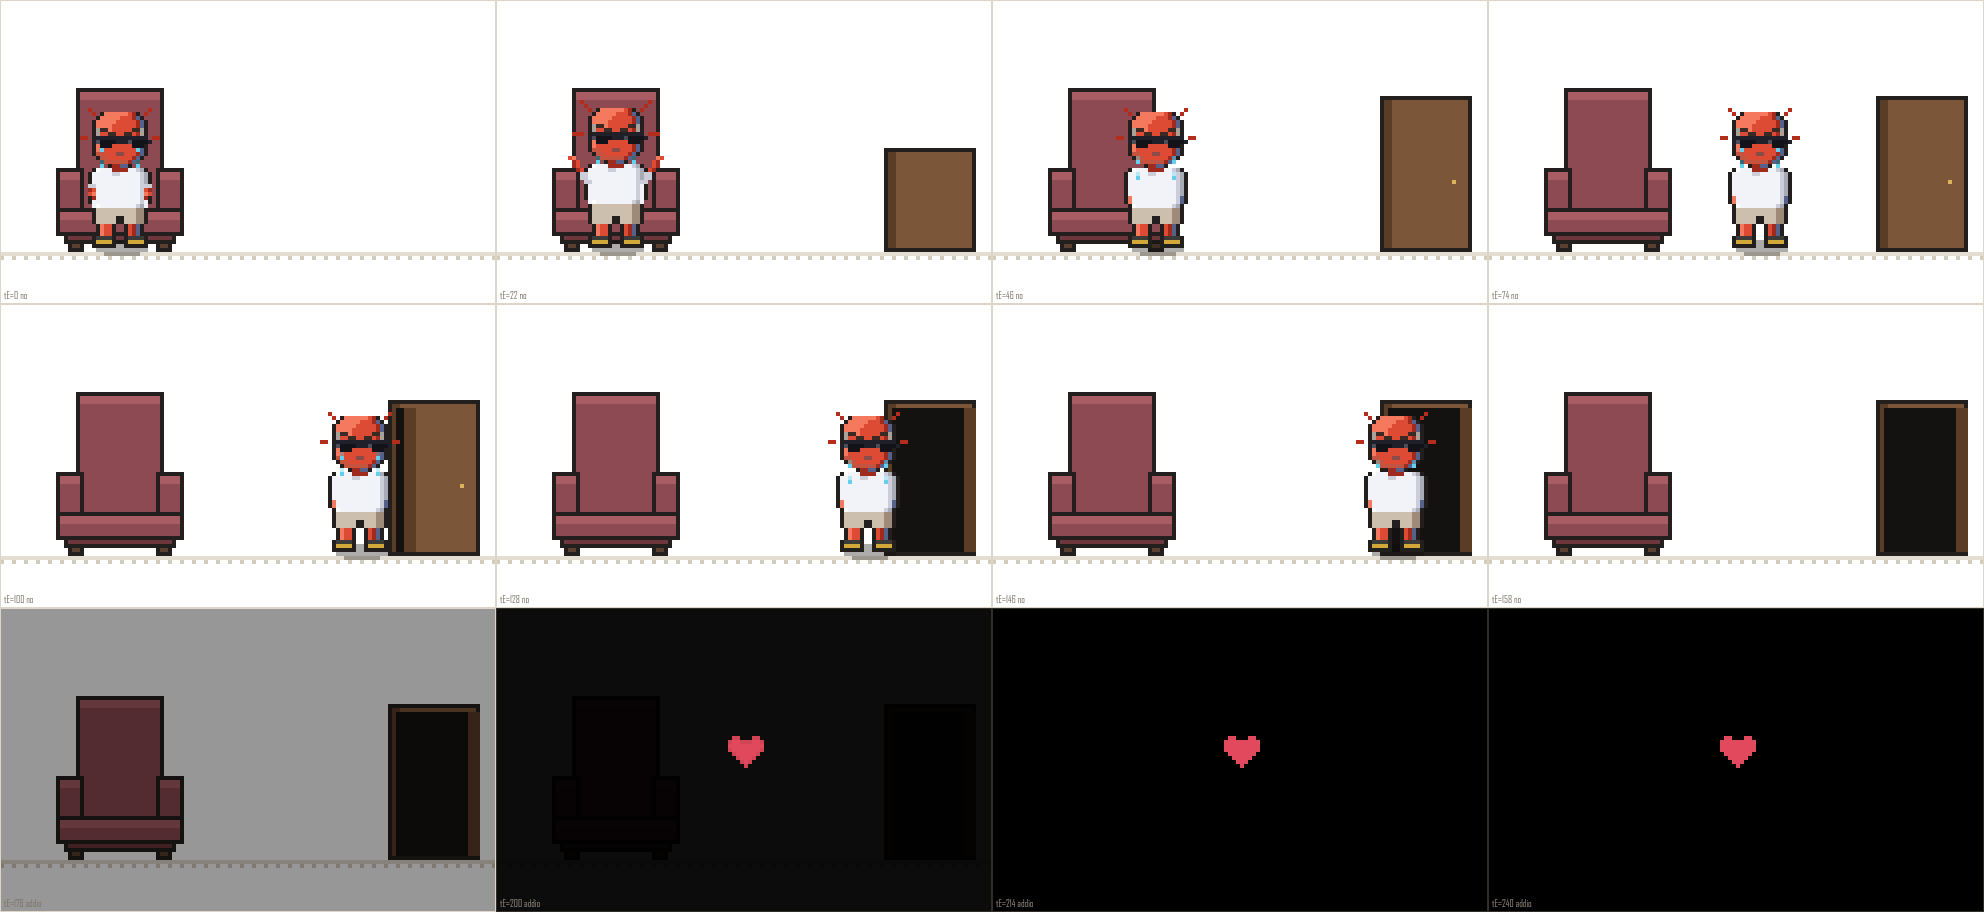
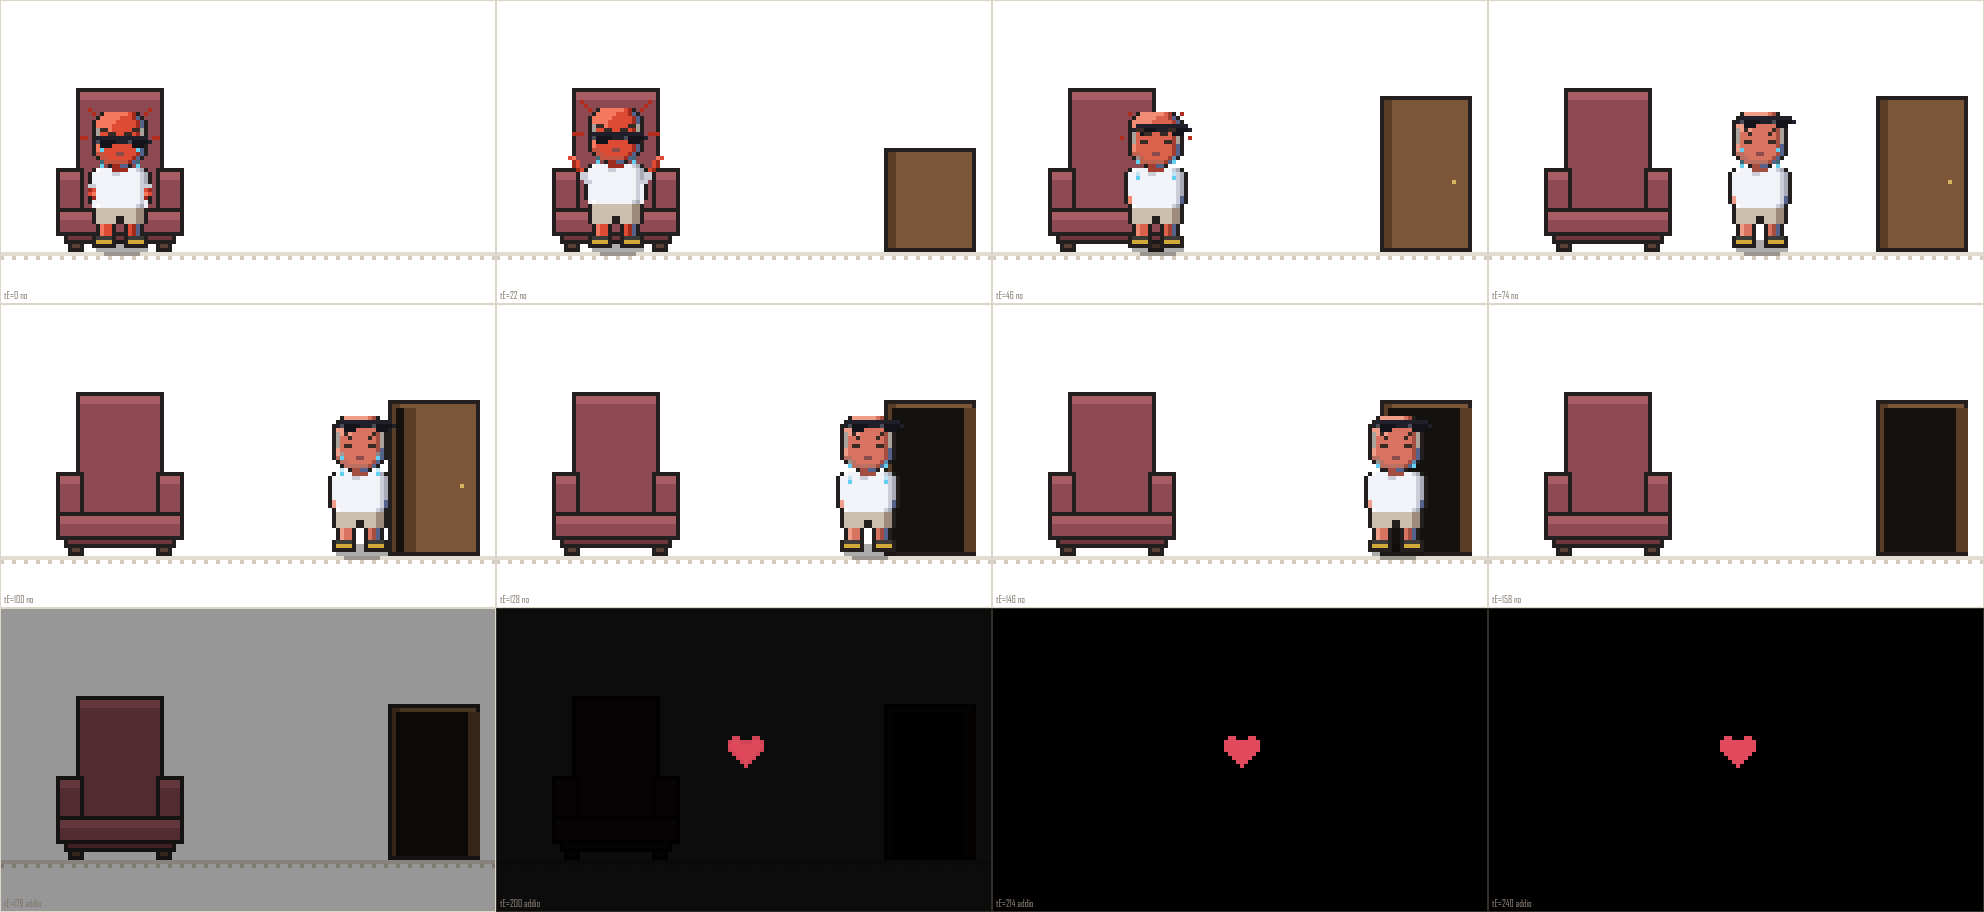
Le battute dei rifiuti, gli occhiali alzati, e il selettore delle scene
Battute: 'MA COME NO?!' e 'DAVVERO?!' al posto delle precedenti.

Al terzo no si tira su gli occhiali mentre se ne va. attore sapeva gia'
farlo - e' il gesto della prima scena - e bastava passargli occhialiQ.
Serve piu' di quanto sembri: la montatura scura gli copre sempre gli
occhi, e senza occhi il pianto erano due gocce azzurre su una faccia
impassibile. Alzati, gli occhi si vedono.

Di conseguenza ho fatto calare la rabbia mentre esce, da 1 a 0,45. Resta
la faccia accesa e restano le sopracciglia, spariscono i trattini attorno
alla testa, che si accendono solo sopra 0,5. Furioso E piangente erano
due segnali che si contendevano la stessa faccia: cosi' la rabbia diventa
dispiacere, che e' quello che gli succede davvero. Se preferisci che resti
furioso fino in fondo, e' un numero solo.

Il fumetto delle battute andava messo quattro pixel PRIMA di lui e non
dopo: la codina esce a quattro dal bordo, e messo dopo la battuta sembrava
detta da qualcuno di fianco.

SELETTORE DELLE SCENE, in prova.js. NON DEVE FINIRE NEL RILASCIO.
Due garanzie indipendenti: si spegne da solo fuori dagli indirizzi locali,
e sta tutto in un file suo, che al rilascio va cancellato insieme alla sua
riga in index.html. La prima basterebbe; la seconda c'e' perche'
dimenticarsi di togliere una cosa e' la piu' facile delle sviste.

strumenti/prova.js verifica le due garanzie: prova la condizione contro
quattordici indirizzi, compresi casi insidiosi come notlocalhost.com e
[…]

diff --git a/prova.js b/prova.js
@@ -1,0 +1,183 @@
+/* ==========================================================================
+   SELETTORE DELLE SCENE — solo per le prove, NON fa parte dell'invito
+
+   Serve a saltare dritti alla scena che si sta lavorando, senza rifare
+   ogni volta tutto il percorso dall'inizio.
+
+   NON PUO' FINIRE NEL RILASCIO, per due ragioni indipendenti:
+
+   1. Si spegne da solo. Compare soltanto se la pagina arriva da un
+      indirizzo locale (localhost, 192.168.x, un file aperto a mano). Sul
+      sito pubblicato l'elenco qui sotto non trova corrispondenza e lo
+      script esce subito, senza toccare niente.
+   2. Sta tutto in questo file. Per farlo sparire del tutto basta togliere
+      la riga <script src="prova.js"> da index.html e cancellarlo.
+
+   La prima ragione da sola basterebbe; la seconda c'e' perche' dimenticarsi
+   di togliere una cosa e' la piu' facile delle sviste.
+
+   Si puo' anche arrivare diritti a una scena con l'indirizzo, comodo dal
+   telefono:   http://192.168.1.9:5173/?scena=mappa
+   ========================================================================== */
+(function(){
+"use strict";
+
+const LOCALE = /^(localhost|127\.0\.0\.1|\[::1\]|0\.0\.0\.0)$/.test(location.hostname)
+  || /^192\.168\./.test(location.hostname)
+  || /^10\./.test(location.hostname)
+  || /^172\.(1[6-9]|2\d|3[01])\./.test(location.hostname)
+  || /^100\./.test(location.hostname)          // rete Tailscale
+  || location.protocol === 'file:';
+
+if (!LOCALE){
+  // sul sito pubblicato non deve esistere: nessun pannello, nessun tasto
+  return;
+}
+
+/* --------------------------------------------------------------------------
+   I SALTI
+   Ogni voce porta la scena nello stato in cui la si vuole guardare, non
+   al suo inizio: le prove servono per il punto difficile, e il punto
+   difficile sta quasi sempre in fondo.
+   -------------------------------------------------------------------------- */
+function scopri(){ document.getElementById('salta').style.display = ''; }
+
+const SALTI = [
+  ['1', 'buio', 'la prima scena dall\u2019inizio', () => {
+    location.href = location.pathname;          // ripartire da zero: ricarico
+  }],
+
+  ['2', 'salotto', 'entra e accende la TV', () => {
+    scopri(); entraInSalotto();
+  }],
+  ['3', 'volume 70', 'la TV che trema, subito', () => {
+    scopri(); entraInSalotto(); tSalotto = SC.fineVolume - 1;
+  }],
+
+  ['4', 'facile', 'il tubo che perde', () => {
+    scopri(); entraInFacile();
+  }],
+  ['5', 'torre', 'la Torre di Pisa', () => {
+    scopri(); entraInFacile();
+    passoFacile = 7; tPasso = 0; mostraFrase(window.FACILE.PASSI[7].frase);
+  }],
+  ['6', 'congedo', 'devi andare via / VABBUO\u2019', () => {
+    scopri(); entraInFacile();
+    const u = window.FACILE.PASSI.length - 1;
+    passoFacile = u; tPasso = 0; mostraFrase(window.FACILE.PASSI[u].frase);
+  }],
+
+  ['7', 'mappa', 'i tre ingrandimenti', () => {
+    scopri(); entraInMappa();
+  }],
+  ['8', 'arrivo', 'data e luogo a schermo', () => {
+    scopri(); entraInMappa();
+    livelloMappa = window.MAPPA.LIVELLI.length - 1;
+    tMappa = fineAggancio();
+    strettaLibera = false;
+    mostraFrase(1);
+  }],
+
+  ['9', 'caduta', 'cade e sbotta', () => {
+    scopri(); entraInCaduta();
+  }],
+  ['0', 'domanda', 'seduto, in attesa', () => {
+    scopri(); entraInScelta(); tScelta = 80;
+  }],
+  ['s', 'ramo s\u00ec', 'coriandoli e ballo', () => {
+    scopri(); entraInScelta(); tScelta = 80; premuto('si');
+  }],
+  ['n', 'ramo no', 'due rifiuti gi\u00e0 dati: il terzo apre la porta', () => {
+    scopri(); entraInScelta(); tScelta = 80;
+    rifiuti = 2; tRifiuto = 9999;
+    document.getElementById('no').className = 'duro2';
+    document.getElementById('testo').innerHTML = DOMANDE[2];
+  }]
+];
+
+/* --------------------------------------------------------------------------
+   IL PANNELLO
+   Lo stile sta qui dentro e non nel foglio della pagina: cosi' l'invito
+   non porta in giro regole che non gli servono.
+   -------------------------------------------------------------------------- */
+const stile = document.createElement('style');
+stile.textContent = `
+  #prova{
+    position:fixed; top:10px; left:10px; z-index:20;
+    display:flex; flex-wrap:wrap; gap:4px; max-width:min(420px, 62vw);
+    font:12px/1 system-ui, sans-serif;
+  }
+  #prova .capo{
+    flex:0 0 100%; color:#6f6558; letter-spacing:.08em;
+    text-transform:uppercase; font-size:10px; margin-bottom:2px;
+  }
+  #prova button{
+    font:inherit; color:#b9ae9e; background:rgba(14,12,10,.86);
+    border:1px solid #3a332c; border-radius:6px;
+    padding:6px 8px; cursor:pointer;
+  }
+  #prova button:hover{ color:#f2ece2; border-color:#6d6153 }
+  #prova button b{ color:#d9a93a; font-weight:700; margin-right:5px }
+  #prova.chiuso .voce{ display:none }
+`;
+document.head.appendChild(stile);
+
+const pannello = document.createElement('div');
+pannello.id = 'prova';
+
+const capo = document.createElement('div');
+capo.className = 'capo';
+capo.textContent = 'prove \u2014 non va online';
+pannello.appendChild(capo);
+
+const perTasto = new Map();
+for (const [tasto, nome, aiuto, vai] of SALTI){
+  const b = document.createElement('button');
+  b.className = 'voce';
+  b.innerHTML = '<b>' + tasto + '</b>' + nome;
+  b.title = aiuto + '  (tasto ' + tasto + ')';
+  b.addEventListener('click', e => { e.stopPropagation(); vai(); });
+  // il tocco non deve arrivare alla scena sotto, o fa avanzare il racconto
+  b.addEventListener('pointerdown', e => e.stopPropagation());
+  pannello.appendChild(b);
+  perTasto.set(tasto, vai);
+}
+
+const chiudi = document.createElement('button');
+chiudi.innerHTML = '<b>\u00b7</b>';
+chiudi.title = 'mostra o nasconde l\u2019elenco';
+chiudi.addEventListener('pointerdown', e => e.stopPropagation());
+chiudi.addEventListener('click', e => {
+  e.stopPropagation();
+  pannello.classList.toggle('chiuso');
+});
+pannello.insertBefore(chiudi, capo.nextSibling);
+
+document.body.appendChild(pannello);
+
+/* I tasti: provare a mano con il mouse, dieci volte di fila, e' la ragione
+   per cui poi non si prova piu'. */
+addEventListener('keydown', e => {
+  if (e.ctrlKey || e.altKey || e.metaKey) return;
+  const vai = perTasto.get(e.key.toLowerCase());
+  if (!vai) return;
+  e.preventDefault();
+  e.stopPropagation();
+  vai();
+}, true);          // in cattura: prima che la pagina legga il tasto
+
+/* L'indirizzo con ?scena=nome, per arrivarci diritti dal telefono. */
+const chiesta = new URLSearchParams(location.search).get('scena');
+if (chiesta){
+  const trovata = SALTI.find(([tasto, nome]) =>
+    tasto === chiesta || nome.toLowerCase().replace(/\s+/g, '') === chiesta.toLowerCase());
+  // la prima voce ricarica la pagina: saltarla evita un giro infinito
+  if (trovata && trovata[1] !== 'buio') setTimeout(trovata[3], 60);
+}
+
+console.log('%cselettore delle scene attivo', 'color:#d9a93a');
+console.log('  tasti: ' + SALTI.map(s => s[0]).join(' ') +
+            '   oppure ?scena=' + SALTI.map(s => s[1].replace(/\s+/g, '')).join(' / '));
+console.log('  non compare sul sito pubblicato');
+
+})();

diff --git a/strumenti/prova.js b/strumenti/prova.js
@@ -1,0 +1,62 @@
+/* Controlla le due garanzie del selettore delle scene:
+   1. che compaia sugli indirizzi locali e su nessun altro
+   2. che tutti i nomi che usa esistano davvero in index.html
+
+     node strumenti/prova.js
+*/
+const fs = require("fs");
+
+const sorgente = fs.readFileSync("prova.js", "utf8");
+const pagina = fs.readFileSync("index.html", "utf8");
+
+/* --- 1. dove compare --- */
+// la stessa condizione del file, ripresa dal sorgente per non poter divergere
+const blocco = sorgente.match(/const LOCALE =([\s\S]*?);\n/)[1];
+const locale = h => {
+  const location = { hostname: h, protocol: "http:" };
+  return eval(blocco.replace(/location/g, "location"));
+};
+
+const DEVE = ["localhost", "127.0.0.1", "192.168.1.9", "100.82.105.15",
+              "10.0.0.5", "172.16.3.2", "172.31.255.1"];
+const NON_DEVE = ["phantomrazgriz.github.io", "gerardo60.it", "example.com",
+                  "1000.1.1.1", "172.32.0.1", "8.8.8.8", "notlocalhost.com"];
+
+let male = 0;
+console.log("deve comparire:");
+for (const h of DEVE){
+  const ok = locale(h);
+  if (!ok) male++;
+  console.log("  " + h.padEnd(26) + (ok ? "si" : "NO   <-- errore"));
+}
+console.log("non deve comparire:");
+for (const h of NON_DEVE){
+  const ok = !locale(h);
+  if (!ok) male++;
+  console.log("  " + h.padEnd(26) + (ok ? "no" : "COMPARE   <-- ERRORE"));
+}
+
+/* --- 2. i nomi che usa esistono nella pagina? --- */
+const USATI = ["entraInSalotto", "entraInFacile", "entraInMappa", "entraInCaduta",
+               "entraInScelta", "mostraFrase", "premuto", "fineAggancio",
+               "tSalotto", "passoFacile", "tPasso", "livelloMappa", "tMappa",
+               "strettaLibera", "tScelta", "rifiuti", "tRifiuto", "SC", "DOMANDE"];
+
+console.log("\nnomi presi dalla pagina:");
+for (const n of USATI){
+  if (!sorgente.includes(n)) continue;
+  const dichiarato = new RegExp("(function|let|const|var)\\s+" + n + "\\b").test(pagina)
+                  || new RegExp("(let|const)\\s+[^;\\n]*\\b" + n + "\\b\\s*=").test(pagina);
+  if (!dichiarato) male++;
+  console.log("  " + n.padEnd(18) + (dichiarato ? "c'e'" : "MANCA   <-- ERRORE"));
+}
+
+/* --- 3. e la pagina lo carica per ultimo? --- */
+const iProva = pagina.indexOf('src="prova.js"');
+const iCorpo = pagina.lastIndexOf("</script>", iProva);
+console.log("\ncaricato dopo il codice della pagina: " +
+  (iProva > 0 && iCorpo > 0 ? "si" : "NO"));
+if (iProva < 0) male++;
+
+console.log(male === 0 ? "\ntutto a posto" : "\n" + male + " problemi");
+process.exit(male === 0 ? 0 : 1);

diff --git a/index.html b/index.html
@@ -1090,13 +1090,17 @@ const DOMANDE = [
   '\u2026sei sicuro? Pensaci bene.',
   'Ultima possibilit\u00e0. Ci sarai?'
 ];
-const REAZIONI = ['MA COME NO', 'E ALLORA NO'];
+const REAZIONI = ['MA COME NO?!', 'DAVVERO?!'];
 
 let tScelta = 0, rifiuti = 0, esito = null, tEsito = 0, dettoAddio = false;
 // da quanto e' arrivato l'ultimo no: serve a far durare la battuta il giusto
 let tRifiuto = 9999;
 
 function entraInScelta(){
+  /* Si prepara la tela da se' invece di fidarsi di arrivare dalla caduta:
+     cosi' la scena regge anche se ci si entra di colpo. */
+  vista = VISTE.finale;
+  ridimensiona();
   stato = 'scelta';
   tScelta = 0; rifiuti = 0; esito = null; tEsito = 0; dettoAddio = false;
   tRifiuto = 9999;
@@ -1181,16 +1185,19 @@ function disegnaScelta(){
   if (s.mostraLui){
     const r = A.attore(P, s.x, s.y, {
       azione: s.azione, t: esito === 'si' ? tEsito : fase, rabbia: s.rabbia,
-      ombra: true, largTela: F.LARG
+      occhialiQ: s.occhiali, ombra: true, largTela: F.LARG
     });
     if (s.piange) F.lacrime(P, r.cx, r.cy, fase);
   }
 
   if (s.coriandoli) F.coriandoli(P, tEsito);
 
-  // le battute dei rifiuti, che non restano appese per sempre
+  /* Le battute dei rifiuti, che non restano appese per sempre.
+     La codina esce a quattro pixel dal bordo del fumetto: per farla cadere
+     sulla sua testa il fumetto va messo quattro pixel PRIMA di lui, non
+     dopo, o la battuta sembra detta da qualcuno di fianco. */
   if (!esito && rifiuti > 0 && rifiuti <= REAZIONI.length && tRifiuto < 70)
-    A.fumetto(P, F.X_POLTRONA + 6, 5, REAZIONI[rifiuti - 1], null, F.LARG);
+    A.fumetto(P, F.X_POLTRONA - 4, 5, REAZIONI[rifiuti - 1], null, F.LARG);
 
   // comparse: i pulsanti quando si siede, il verde a festa avviata
   if (s.seduto && !esito && !elScelta.classList.contains('viva'))
@@ -1232,6 +1239,12 @@ function disegnaVelo(){
 
 disegna();
 </script>
+
+<!-- SOLO PER LE PROVE: il selettore delle scene.
+     Si spegne da solo fuori dagli indirizzi locali, ma prima del rilascio
+     togliere comunque questa riga e cancellare il file. -->
+<script src="prova.js"></script>
+
 </body>
 </html>
 

diff --git a/strumenti/finale.js b/strumenti/finale.js
@@ -70,8 +70,8 @@ if (modo === "poltrona"){
     { et: "sbianca", bianco: 0.5, entrata: 0.45, seduto: false, rabbia: 0.8 },
     { et: "bianco, arriva", bianco: 1, entrata: 1, seduto: false, rabbia: 0.5 },
     { et: "seduto, aspetta", bianco: 1, entrata: 1, seduto: true, rabbia: 0.2 },
-    { et: "primo no", bianco: 1, entrata: 1, seduto: true, rabbia: 0.5 },
-    { et: "terzo no", bianco: 1, entrata: 1, seduto: true, rabbia: 1 }
+    { et: "primo no", bianco: 1, entrata: 1, seduto: true, rabbia: 0.52, dice: "MA COME NO?!" },
+    { et: "secondo no", bianco: 1, entrata: 1, seduto: true, rabbia: 0.8, dice: "DAVVERO?!" }
   ];
   const { c, ctx, colonne } = tela(CASI.length, 3, "#fff");
   CASI.forEach((k, n) => {
@@ -87,6 +87,7 @@ if (modo === "poltrona"){
       azione: k.rabbia > 0.6 ? "sbuffa" : "fermo",
       t: 40, rabbia: k.rabbia, ombra: !k.seduto
     });
+    if (k.dice) A.fumetto(P, F.X_POLTRONA - 4, 5, k.dice, null, F.LARG);
     riquadro(ctx, gx, gy, k.et, k.bianco > 0.5);
   });
   fs.writeFileSync("anteprime/scelta.png", c.toBuffer("image/png"));
@@ -146,7 +147,7 @@ if (modo === "si" || modo === "no"){
       if (s.mostraLui){
         const r = A.attore(P, s.x, s.y, {
           azione: s.azione, t: tE, rabbia: s.rabbia,
-          ombra: s.y === F.SUOLO, largTela: F.LARG
+          occhialiQ: s.occhiali, ombra: true, largTela: F.LARG
         });
         if (s.piange) F.lacrime(P, r.cx, r.cy, tE);
       }
@@ -187,11 +188,15 @@ if (modo === "addio"){
       }
     }
     F.cuore(P, F.LARG / 2, F.ALT / 2, k.cuore, 20);
+    if (k.dice) A.fumetto(P, F.X_POLTRONA - 4, 5, k.dice, null, F.LARG);
     riquadro(ctx, gx, gy, k.et, k.bianco > 0.5);
   });
   fs.writeFileSync("anteprime/addio.png", c.toBuffer("image/png"));
   console.log("addio -> anteprime/addio.png");
 }
+
+
+
 
 
 

diff --git a/finale.js b/finale.js
@@ -386,7 +386,7 @@ function statoScelta(t, esito, tE, rifiuti){
     azione: q < 1 ? 'cammina' : 'fermo',
     // arriva ancora furioso e si calma sedendosi
     rabbia: q < 1 ? 1 - q * (1 - RABBIA_SEDUTO[0]) : RABBIA_SEDUTO[Math.min(3, rifiuti)],
-    piange: false, mostraLui: true,
+    piange: false, mostraLui: true, occhiali: 0,
     porta: null, coriandoli: false, finito: false
   };
 
@@ -413,7 +413,19 @@ function statoScelta(t, esito, tE, rifiuti){
   }
 
   if (esito === 'no'){
-    s.rabbia = 1; s.piange = true;
+    /* La rabbia cala mentre se ne va: resta la faccia accesa e le
+       sopracciglia, spariscono i trattini attorno alla testa (che si
+       accendono solo sopra 0,5). Furioso E piangente erano due segnali
+       che si contendevano la stessa faccia; cosi' la rabbia diventa
+       dispiacere, che e' quello che gli succede davvero. */
+    s.rabbia = tE > FA.porta
+      ? Math.max(0.45, 1 - (tE - FA.porta) / 40) : 1;
+    s.piange = true;
+    /* Si tira su gli occhiali mentre se ne va. E' il gesto di chi si
+       asciuga gli occhi, e soprattutto e' l'unico modo di vederglieli:
+       la montatura scura li copre sempre, e senza occhi il pianto sono
+       solo due gocce azzurre su una faccia impassibile. */
+    s.occhiali = tE > FA.porta ? Math.min(1, (tE - FA.porta) / 18) : 0;
     const comparsa = Math.min(1, tE / FA.porta);
     const apre = tE > FA.porta + FA.cammina
       ? Math.min(1, (tE - FA.porta - FA.cammina) / FA.apre) : 0;
